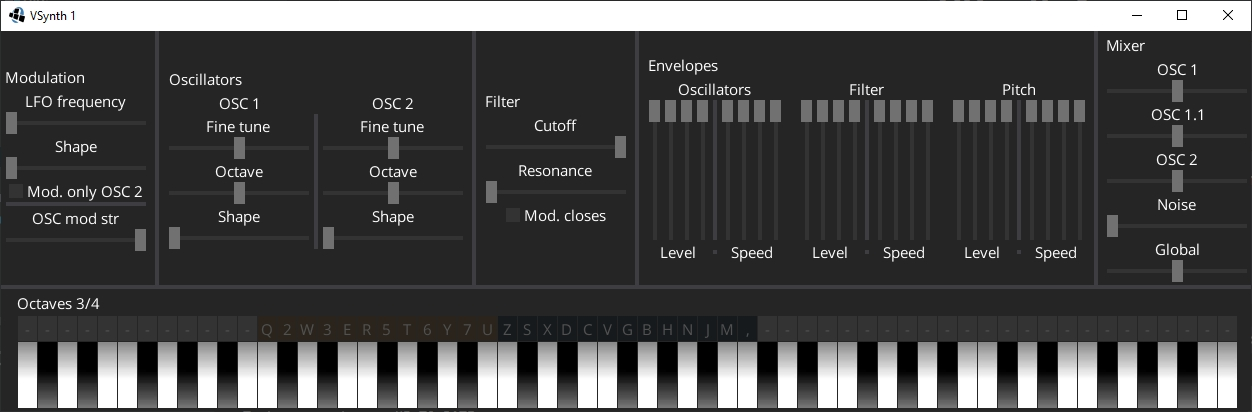
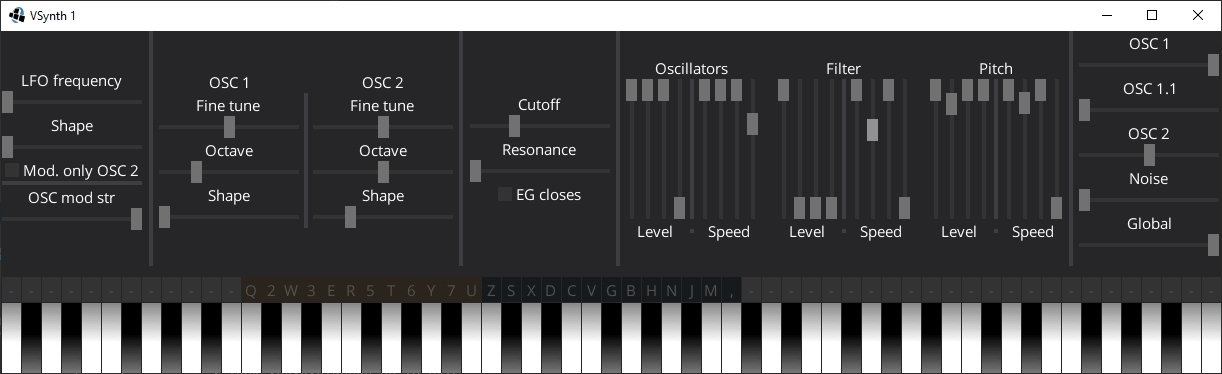
ui adjustments

diff --git a/core/src/com/jbatista/vsynth/components/modules/Rack.java b/core/src/com/jbatista/vsynth/components/modules/Rack.java
@@ -30,7 +30,6 @@ public class Rack extends VisTable {
 
     public Rack(InstrumentBoard instrumentBoard) {
         this.instrumentBoard = instrumentBoard;
-        setFillParent(true);
 
         soundOut = new SoundOut(this.instrumentBoard.getInstrument());
 
@@ -45,18 +44,17 @@ public class Rack extends VisTable {
         this.instrumentBoard.getSoundOutput().connectPatch(patch);
         soundOut.getInput(0).connectPatch(patch);
 
-        add(modulationPanel).fillX();
-        add(new Separator()).padLeft(5).padRight(5).fillY();
-        add(oscillatorsPanel).fillX();
-        add(new Separator()).padLeft(5).padRight(5).fillY();
-        add(filterPanel).fillX();
-        add(new Separator()).padLeft(5).padRight(5).fillY();
-        add(envelopesPanel).fillX();
-        add(new Separator()).padLeft(5).padRight(5).fillY();
-        add(mixerPanel).fillX().row();
+        add(modulationPanel).center();
+        add(new Separator()).padLeft(4).padRight(4).fillY();
+        add(oscillatorsPanel).center();
+        add(new Separator()).padLeft(4).padRight(4).fillY();
+        add(filterPanel).center();
+        add(new Separator()).padLeft(4).padRight(4).fillY();
+        add(envelopesPanel).center();
+        add(new Separator()).padLeft(4).padRight(4).fillY();
+        add(mixerPanel).center().row();
 
-        add(new Separator()).colspan(9).fillX().row();
-        add(keyboardPanel).colspan(9).row();
+        add(keyboardPanel).colspan(11).padTop(10).center().row();
 
         setMode(Mode.MONO);
     }

diff --git a/core/src/com/jbatista/vsynth/Main.java b/core/src/com/jbatista/vsynth/Main.java
@@ -12,7 +12,6 @@ import com.badlogic.gdx.utils.viewport.FitViewport;
 import com.jbatista.vsynth.components.modules.InstrumentBoard;
 import com.jbatista.vsynth.components.modules.Rack;
 import com.kotcrab.vis.ui.VisUI;
-import com.kotcrab.vis.ui.widget.VisWindow;
 
 public class Main extends ApplicationAdapter {
 
@@ -27,8 +26,6 @@ public class Main extends ApplicationAdapter {
     private InstrumentBoard instrumentBoard;
     private Rack rack;
 
-    private VisWindow background;
-
     @Override
     public void create() {
         VisUI.load();
@@ -40,25 +37,20 @@ public class Main extends ApplicationAdapter {
 
         instrumentBoard = new InstrumentBoard();
         rack = new Rack(instrumentBoard);
-
-        background = new VisWindow("", false);
-        background.setFillParent(true);
-        background.setMovable(false);
-        background.add(rack);
+        rack.setFillParent(true);
 
         InputMultiplexer multiplexer = new InputMultiplexer();
         multiplexer.addProcessor(stage);
         multiplexer.addProcessor(rack.getInputProcessor());
         Gdx.input.setInputProcessor(multiplexer);
 
-        stage.addActor(background);
-
+        stage.addActor(rack);
         audioThread.start();
     }
 
     @Override
     public void render() {
-        Gdx.gl.glClearColor(0, 0, 0, 1);
+        Gdx.gl.glClearColor(0.15f, 0.15f, 0.16f, 1);
         Gdx.gl.glClear(GL20.GL_COLOR_BUFFER_BIT);
         stage.act(Gdx.graphics.getDeltaTime());
         stage.draw();

diff --git a/core/src/com/jbatista/vsynth/components/panels/MixerPanel.java b/core/src/com/jbatista/vsynth/components/panels/MixerPanel.java
@@ -4,11 +4,9 @@ import com.badlogic.gdx.scenes.scene2d.Actor;
 import com.badlogic.gdx.scenes.scene2d.utils.ChangeListener;
 import com.jbatista.vsynth.components.modules.InstrumentBoard;
 import com.kotcrab.vis.ui.widget.VisSlider;
-import com.kotcrab.vis.ui.widget.VisWindow;
+import com.kotcrab.vis.ui.widget.VisTable;
 
-public class MixerPanel extends VisWindow {
-
-    private final InstrumentBoard instrumentBoard;
+public class MixerPanel extends VisTable {
 
     private final VisSlider sldOsc1 = new VisSlider(0, 1, 0.01f, false);
     private final VisSlider sldOsc11 = new VisSlider(0, 1, 0.01f, false);
@@ -17,10 +15,6 @@ public class MixerPanel extends VisWindow {
     private final VisSlider sldGlobal = new VisSlider(0, 1, 0.01f, false);
 
     public MixerPanel(InstrumentBoard instrumentBoard) {
-        super("Mixer", false);
-        setMovable(false);
-        this.instrumentBoard = instrumentBoard;
-
         // layout
         add("OSC 1").row();
         add(sldOsc1).row();
@@ -35,7 +29,7 @@ public class MixerPanel extends VisWindow {
         add(sldNoise).row();
 
         add("Global").row();
-        add(sldGlobal).row();
+        add(sldGlobal).padBottom(10).row();
 
         sldOsc1.setValue((float) instrumentBoard.getOscillator1Volume());
         sldOsc11.setValue((float) instrumentBoard.getOscillator3Volume());

diff --git a/core/src/com/jbatista/vsynth/components/panels/KeyboardPanel.java b/core/src/com/jbatista/vsynth/components/panels/KeyboardPanel.java
@@ -11,13 +11,13 @@ import com.badlogic.gdx.scenes.scene2d.utils.Drawable;
 import com.badlogic.gdx.scenes.scene2d.utils.TextureRegionDrawable;
 import com.jbatista.bricks.KeyboardNote;
 import com.jbatista.vsynth.components.modules.InstrumentBoard;
+import com.kotcrab.vis.ui.widget.VisTable;
 import com.kotcrab.vis.ui.widget.VisTextButton;
-import com.kotcrab.vis.ui.widget.VisWindow;
 
 import java.util.LinkedList;
 import java.util.List;
 
-public class KeyboardPanel extends VisWindow {
+public class KeyboardPanel extends VisTable {
 
     private final InstrumentBoard instrumentBoard;
 
@@ -41,8 +41,6 @@ public class KeyboardPanel extends VisWindow {
     private boolean clicked = false;
 
     public KeyboardPanel(InstrumentBoard instrumentBoard) {
-        super("Keyboard", false);
-        setMovable(false);
         this.instrumentBoard = instrumentBoard;
 
         final KeyboardNote[] allNotes = KeyboardNote.values();
@@ -112,8 +110,6 @@ public class KeyboardPanel extends VisWindow {
         } else {
             title = "Octaves " + (index + 1) + "/" + (index + 2);
         }
-
-        getTitleLabel().setText(title);
 
         labelButtons.forEach(button -> {
             button.setColor(Color.WHITE);

diff --git a/core/src/com/jbatista/vsynth/components/panels/EnvelopesPanel.java b/core/src/com/jbatista/vsynth/components/panels/EnvelopesPanel.java
@@ -6,11 +6,10 @@ import com.badlogic.gdx.scenes.scene2d.utils.ChangeListener;
 import com.jbatista.vsynth.components.modules.InstrumentBoard;
 import com.kotcrab.vis.ui.widget.Separator;
 import com.kotcrab.vis.ui.widget.VisSlider;
+import com.kotcrab.vis.ui.widget.VisTable;
 import com.kotcrab.vis.ui.widget.VisWindow;
 
-public class EnvelopesPanel extends VisWindow {
-
-    private final InstrumentBoard instrumentBoard;
+public class EnvelopesPanel extends VisTable {
 
     private final HorizontalGroup grpOscLvl = new HorizontalGroup();
     private final VisSlider oscAtkLvl = new VisSlider(0, 1, 0.005f, true);
@@ -50,10 +49,6 @@ public class EnvelopesPanel extends VisWindow {
     private final VisSlider pitRelSpd = new VisSlider(0, 1, 0.005f, true);
 
     public EnvelopesPanel(InstrumentBoard instrumentBoard) {
-        super("Envelopes", false);
-        setMovable(false);
-        this.instrumentBoard = instrumentBoard;
-
         grpOscLvl.space(5);
         grpOscLvl.addActor(oscAtkLvl);
         grpOscLvl.addActor(oscDecLvl);

diff --git a/core/src/com/jbatista/vsynth/components/panels/FilterPanel.java b/core/src/com/jbatista/vsynth/components/panels/FilterPanel.java
@@ -6,11 +6,9 @@ import com.jbatista.vsynth.components.modules.InstrumentBoard;
 import com.kotcrab.vis.ui.widget.VisCheckBox;
 import com.kotcrab.vis.ui.widget.VisLabel;
 import com.kotcrab.vis.ui.widget.VisSlider;
-import com.kotcrab.vis.ui.widget.VisWindow;
+import com.kotcrab.vis.ui.widget.VisTable;
 
-public class FilterPanel extends VisWindow {
-
-    private final InstrumentBoard instrumentBoard;
+public class FilterPanel extends VisTable {
 
     private final VisLabel lblCutoff = new VisLabel("Cutoff");
     private final VisSlider sldCutoff = new VisSlider(0, 1, 0.01f, false);
@@ -21,10 +19,6 @@ public class FilterPanel extends VisWindow {
     private final VisCheckBox chkFilCloses = new VisCheckBox("EG closes");
 
     public FilterPanel(InstrumentBoard instrumentBoard) {
-        super("Filter", false);
-        setMovable(false);
-        this.instrumentBoard = instrumentBoard;
-
         // layout
         add(lblCutoff).row();
         add(sldCutoff).row();

diff --git a/core/src/com/jbatista/vsynth/components/panels/OscillatorsPanel.java b/core/src/com/jbatista/vsynth/components/panels/OscillatorsPanel.java
@@ -8,11 +8,9 @@ import com.jbatista.vsynth.components.modules.InstrumentBoard;
 import com.kotcrab.vis.ui.widget.Separator;
 import com.kotcrab.vis.ui.widget.VisLabel;
 import com.kotcrab.vis.ui.widget.VisSlider;
-import com.kotcrab.vis.ui.widget.VisWindow;
+import com.kotcrab.vis.ui.widget.VisTable;
 
-public class OscillatorsPanel extends VisWindow {
-
-    private final InstrumentBoard instrumentBoard;
+public class OscillatorsPanel extends VisTable {
 
     private final VerticalGroup osc1Group = new VerticalGroup();
     private final VisLabel lblOsc1FineTune = new VisLabel("Fine tune");
@@ -31,10 +29,6 @@ public class OscillatorsPanel extends VisWindow {
     private final VisSlider sldOsc2Shape = new VisSlider(0, 4, 1, false);
 
     public OscillatorsPanel(InstrumentBoard instrumentBoard) {
-        super("Oscillators", false);
-        setMovable(false);
-        this.instrumentBoard = instrumentBoard;
-
         // layout
         add("OSC 1");
         add();

diff --git a/core/src/com/jbatista/vsynth/components/panels/ModulationPanel.java b/core/src/com/jbatista/vsynth/components/panels/ModulationPanel.java
@@ -6,11 +6,9 @@ import com.jbatista.vsynth.components.modules.InstrumentBoard;
 import com.kotcrab.vis.ui.widget.Separator;
 import com.kotcrab.vis.ui.widget.VisCheckBox;
 import com.kotcrab.vis.ui.widget.VisSlider;
-import com.kotcrab.vis.ui.widget.VisWindow;
+import com.kotcrab.vis.ui.widget.VisTable;
 
-public class ModulationPanel extends VisWindow {
-
-    private final InstrumentBoard instrumentBoard;
+public class ModulationPanel extends VisTable {
 
     private final VisSlider sldLfoFreq = new VisSlider(0, 1, 0.01f, false);
     private final VisSlider sldLfoShape = new VisSlider(0, 4, 1, false);
@@ -19,10 +17,6 @@ public class ModulationPanel extends VisWindow {
 
 
     public ModulationPanel(InstrumentBoard instrumentBoard) {
-        super("Modulation", false);
-        setMovable(false);
-        this.instrumentBoard = instrumentBoard;
-
         // layout
         add("LFO frequency").row();
         add(sldLfoFreq).row();

diff --git a/desktop/src/com/jbatista/vsynth/desktop/DesktopLauncher.java b/desktop/src/com/jbatista/vsynth/desktop/DesktopLauncher.java
@@ -10,8 +10,8 @@ public class DesktopLauncher {
 
         config.title = "VSynth 1";
         config.vSyncEnabled = true;
-        config.width = 1250;
-        config.height = 390;
+        config.width = 1220;
+        config.height = 342;
 
         new LwjglApplication(new Main(), config);
     }
